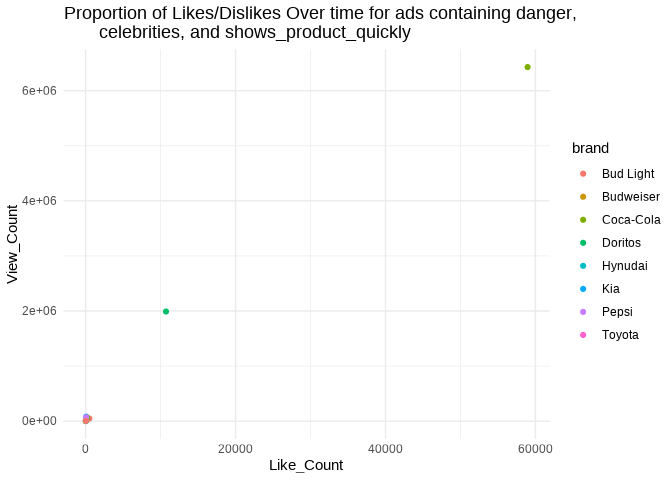
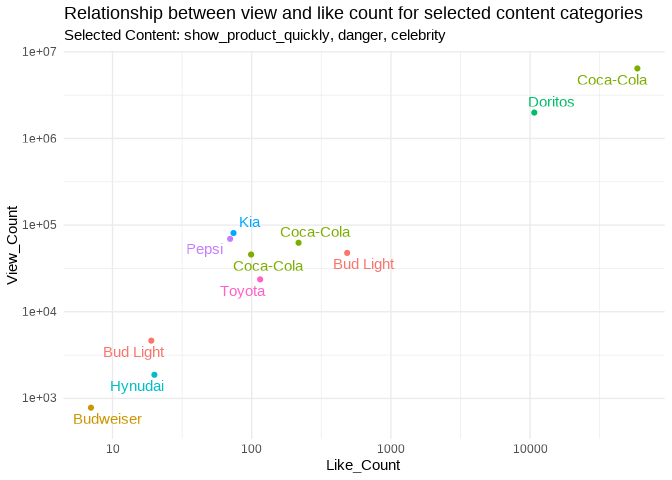
revised part of q1

diff --git a/README.md b/README.md
@@ -51,13 +51,44 @@ The Outliers
 
 ## Introduction
 
-\[add in Hebron’s work\]
+Every year millions of Americans tune into the most watched television
+broadcast in the United States — the Super Bowl. The Super Bowl is the
+NFL championship game, pitting the winners of the two major conferences,
+the AFC and the NFC, in a final showdown for all the glory. Due to the
+game’s high viewership, many brands use the occasion to advertise their
+products as a means to generate hype and exposure around their brands.
+In fact, Super Bowl commercials have been regarded as such a cultural
+phenomenon that many viewers only watch the games to see the beloved
+commercials. The invaluable exposure the Super Bowl brings to brands
+also comes with a hefty price as In 2021 alone the cost for a 30-second
+slot boasted an incredible price tag of $6 million.
+
+Using a FiveThirtyEight dataset of 233 ads from 10 brands that aired the
+most spots since 2000 we decided to explore the themes that make Super
+Bowl ads so popular. The dataset includes categorical variables used to
+classify each ad as `funny`, `show_product_quickly`, `patriotic`,
+`celebrity`, `danger`, `animals` and/or `use_sex`. while also including
+variables that that we will use to explore popularity such as `year`,
+`brand`, `view_count`, `like_count`, `dislike_count`, `favorite_count`,
+and `comment_count`. We chose to use this dataset because we — like
+millions other Americans – love Super Bowl ads, and interested in
+viewing trends over time.
 
 ## Exploring how Super Bowl commercial content trends change over time
 
 ### Introduction
 
-\[add in Hebron’s work\]
+We first explore the themes featured in Super Bowl ads and how they have
+changed over the last 21 years by leveraging the following variables:
+`funny`, `show_product_quickly`, `patriotic`, `celebrity`, `danger`,
+`animals`,`use_sex`, and `year`. Each variable (except for year) answers
+whether or not that specific characteristic was featured in the ad. For
+example, if an ad contains a celebrity appearance then there is a “yes”
+inputted for that brands’s commercial. Furthermore, a commercial can
+feature multiple characteristics such as being funny while using
+patriotism to raise awareness for said product. We are interested in
+seeing the changes in commercial advertising over time and predict that
+patriotic themes have become less prominent over time.
 
 ### Approach
 
@@ -106,12 +137,19 @@ q1_p2_data <- superbowl_data %>%
 
 ``` r
 ggplot(data = q1_p2_data, aes(x = like_count, y = view_count, color = brand)) +
-  geom_point() + 
-  labs(title = "Proportion of Likes/Dislikes Over time for ads containing danger,
-       celebrities, and shows_product_quickly", x = "Like_Count", y = "View_Count") + theme_minimal()
+  geom_point(show.legend = FALSE) + 
+  labs(title = "Relationship between view and like count for selected content categories",
+       x = "Like_Count", y = "View_Count",
+       subtitle = "Selected Content: show_product_quickly, danger, celebrity") + 
+  theme_minimal() +
+  scale_y_log10() +
+  scale_x_log10() +
+  geom_text_repel(aes(label = brand), show.legend = FALSE) 
 ```
 
     ## Warning: Removed 1 rows containing missing values (geom_point).
+
+    ## Warning: Removed 1 rows containing missing values (geom_text_repel).
 
 ![](README_files/figure-gfm/q1_p2_graph-1.png)<!-- -->
 
@@ -157,21 +195,19 @@ q2_p1_data <- filter(superbowl_data, like_count != is.na(like_count) & dislike_c
 
 ``` r
 q2_p2_data <- superbowl_data %>%
-  filter(brand == c("Kia", "NFL", "Pepsi", "E-Trade"))%>%
+  filter(brand == c("Kia", "Pepsi", "E-Trade"))%>%
   group_by(year, brand) %>%
   mutate(proportion_likes_yearly = like_count / (like_count + dislike_count))
 ```
 
-    ## Warning in brand == c("Kia", "NFL", "Pepsi", "E-Trade"): longer object length is
-    ## not a multiple of shorter object length
+    ## Warning in brand == c("Kia", "Pepsi", "E-Trade"): longer object length is not a
+    ## multiple of shorter object length
 
 ``` r
-ggplot(data = q2_p2_data, aes(x = year, y = proportion_likes_yearly, color = brand)) +
-  geom_point() + 
+ggplot(data = q2_p2_data, aes(x = year, y = proportion_likes_yearly, group = brand))  +
+  geom_line() + 
   labs(title = "Proportion of Likes/Dislikes over time for the top 3 Brands", x = "Year", y = "Count") + theme_minimal()
 ```
-
-    ## Warning: Removed 2 rows containing missing values (geom_point).
 
 ![](README_files/figure-gfm/q2_p2_graph-1.png)<!-- -->
 
